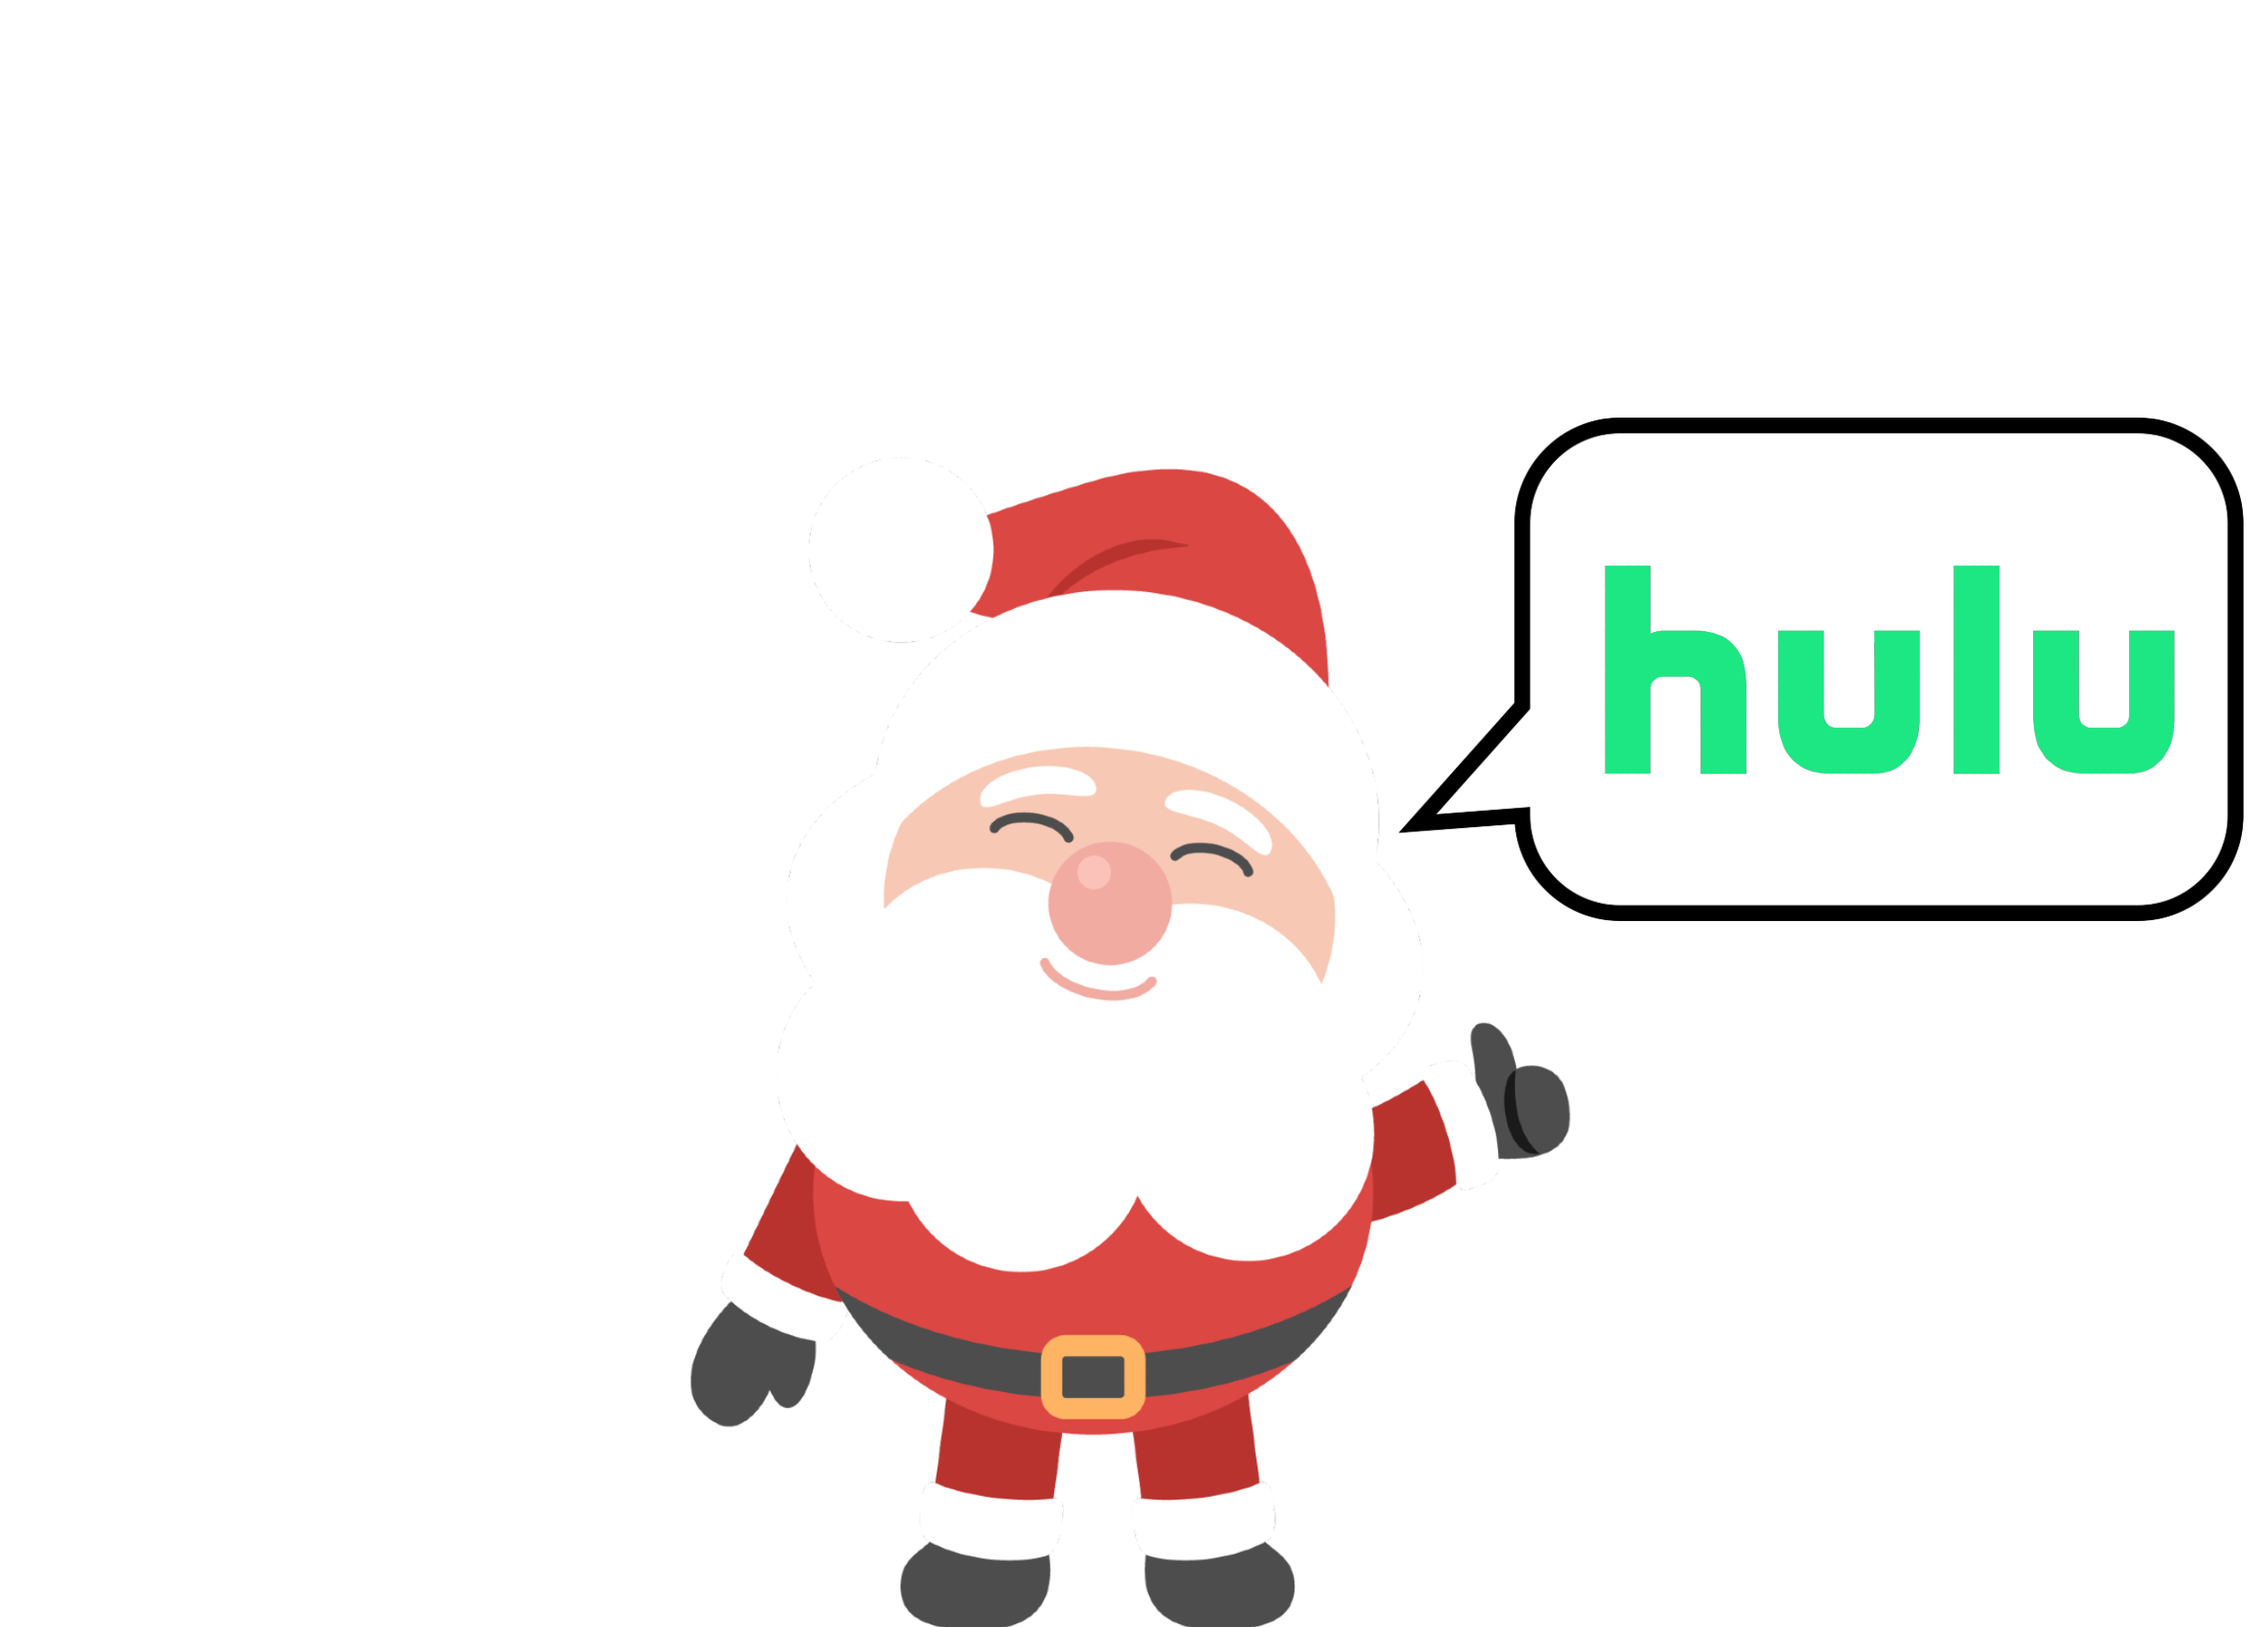
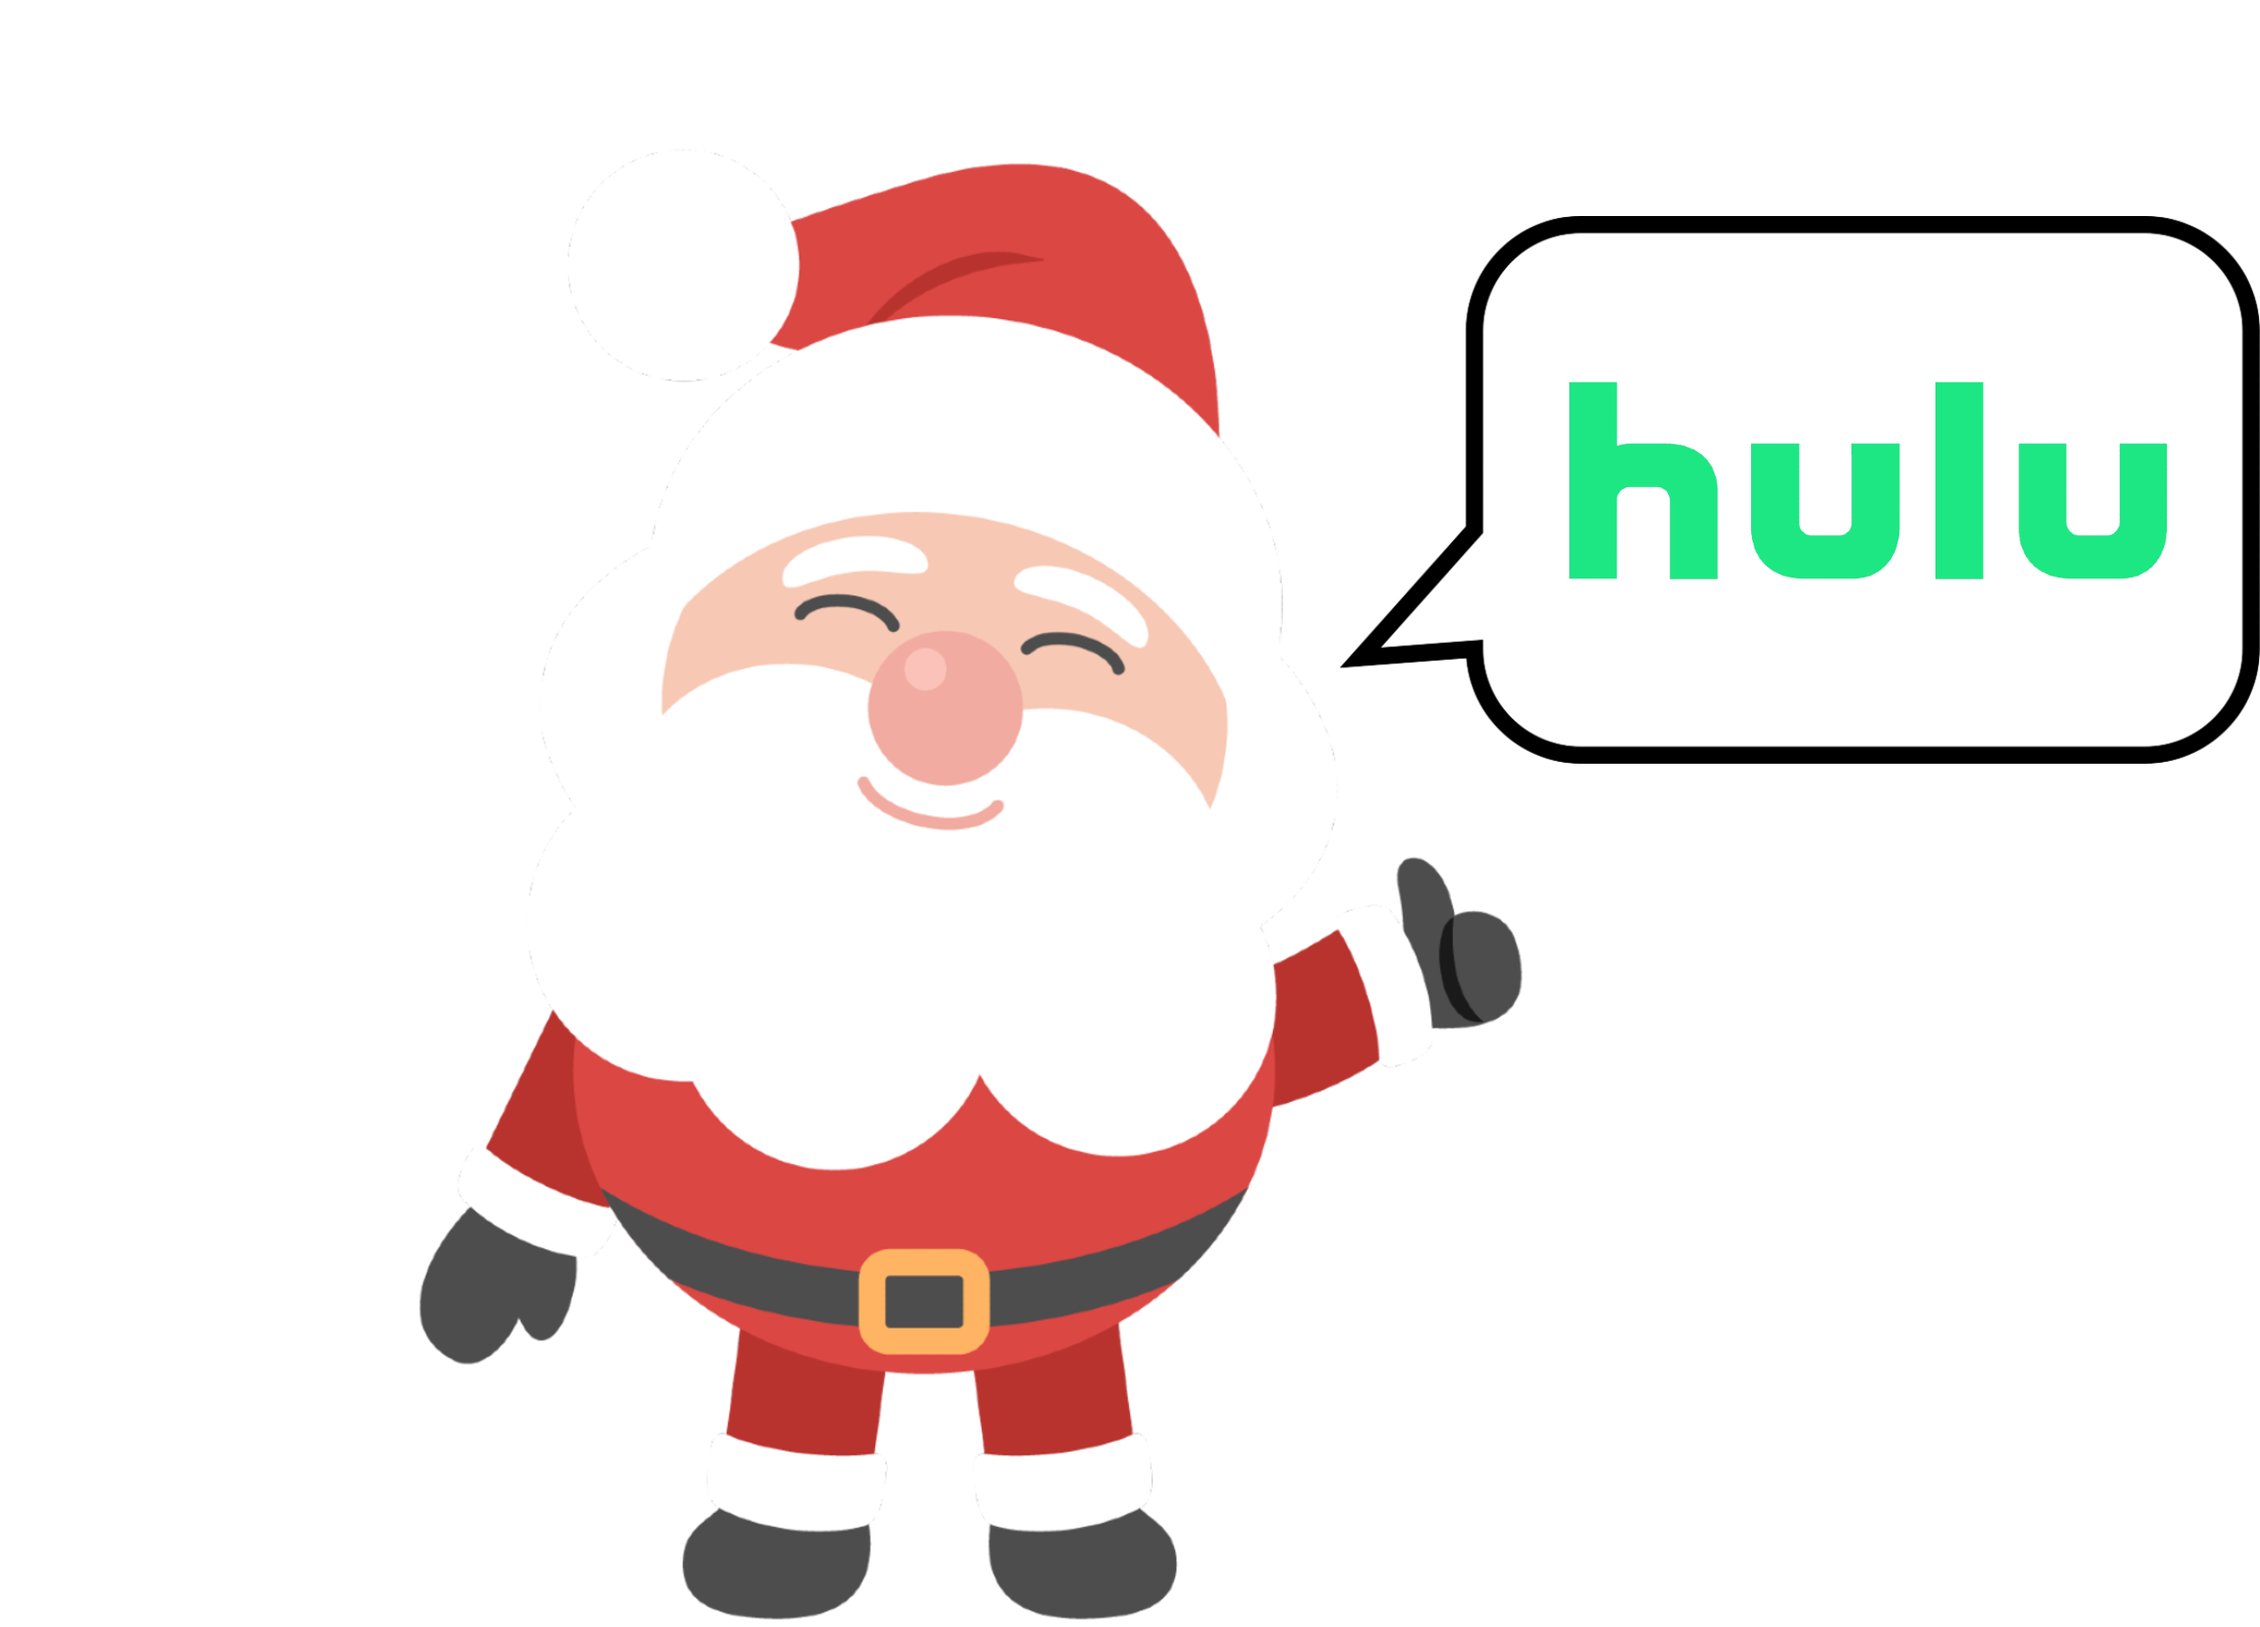
Working Version

Changed region(s): [[0.1872, 0.0933, 1.0, 1.0]]

diff --git a/stream_santa/src/components/Prediction.js b/stream_santa/src/components/Prediction.js
@@ -1,0 +1,36 @@
+import {
+  Radio,
+  Button,
+  Box,
+  RadioGroup,
+  Stack,
+  Container,
+  Text
+} from '@chakra-ui/react';
+
+export default function Prediction(props) {
+
+  return (
+    <Container centerContent>
+        <img src={props.path} width="500" height="450" ></img>
+        <Container padding='10' centerContent>
+            <Box borderRadius='md' bg='white' color='black' px={4} padding='3'>
+                <Stack direction='row' alignItems='center' spacing={5}>
+                    <Stack direction='column' alignItems='center' spacing={2}>
+                        <Text>Was this helpful?</Text>
+                        <RadioGroup defaultValue='no'>
+                            <Stack direction='row' spacing={5}>
+                                <Radio colorScheme='green' value='yes'>Yes</Radio>
+                                <Radio colorScheme='green' value='no'>No</Radio>
+                            </Stack>
+                        </RadioGroup>
+                    </Stack>
+                    <Button mt={4} colorScheme='red' type='submit' margin={0}>
+                        Submit
+                    </Button>
+                </Stack>
+            </Box>
+        </Container>
+    </Container>
+  )
+}

diff --git a/stream_santa/src/components/Form.js b/stream_santa/src/components/Form.js
@@ -17,7 +17,7 @@ export default function Form() {
     years.push(i);
   }
   const runtimes = [];
-  for (let i = 250; i >= 1; i -= 1) {
+  for (let i = 200; i >= 1; i -= 1) {
     runtimes.push(i);
   }
 
@@ -31,14 +31,9 @@ export default function Form() {
 
   const onSubmit = async (values) => {
     const test = await axios.post('http://localhost:9090/watson', values);
-    console.log(test);
-    setService(test);
-    return new Promise((resolve) => {
-      setTimeout(() => {
-        alert(JSON.stringify(values, null, 2))
-        resolve()
-      }, 3000)
-    })
+    const result = test.data.predictions[0].values[0][0]
+    setService(result);
+    console.log(service)
 }
 
   return (
@@ -118,7 +113,7 @@ export default function Form() {
                     >
                         <option value='2'>Feel Good</option>
                         <option value='1'>Indifferent</option>
-                        <option value='0'>Emotionally Complex</option>
+                        <option value='0'>Sad</option>
                     </Select>
                     <FormErrorMessage>
                     {errors.mood && errors.mood.message}

diff --git a/stream_santa/src/components/Body.js b/stream_santa/src/components/Body.js
@@ -1,14 +1,28 @@
-import * as React from 'react';
-import logo from '../assets/santa.png'
+import { useContext } from 'react';
+import santa from '../assets/santa.png'
+import hbo from '../assets/hbo.png'
+import hulu from '../assets/hulu.png'
+import netflix from '../assets/netflix.png'
+import paramount from '../assets/paramount.png'
+import disney from '../assets/disney.png'
+import prime from '../assets/prim.png'
 import './Body.css'
+import Prediction from './Prediction';
 import { Context } from './Store'
 
 export default function Body() {
+  const [service, setService] = useContext(Context)
+  const services = [<Prediction path={netflix}/>,
+  <Prediction path={prime}/>,
+  <Prediction path={hulu}/>,
+  <Prediction path={disney}/>,
+  <Prediction path={hbo}/>,
+  <Prediction path={paramount}/>,<img src={santa} width="450" height="400"/>]
   return (
     <div className='body'>
         <div className='container'>
-            <h1 className='h1'>StreamSanta</h1>
-            <img src={logo} width="450" height="400"></img>
+            <h1 className='h1'>Stream Santa</h1>
+            {services[service]}
         </div>
     </div>
   );

diff --git a/stream_santa/src/components/Store.js b/stream_santa/src/components/Store.js
@@ -1,8 +1,6 @@
 import { useState, createContext } from 'react';
 
-const initialService = {
-    service: "none"
-};
+const initialService = 6;
 
 export const Context = createContext();
 

diff --git a/stream_santa/src/components/Body.css b/stream_santa/src/components/Body.css
@@ -10,6 +10,7 @@
     display: flex;
     flex-direction: column;
     align-items: center;
+    padding: auto;
 }
 
 .h1 {
